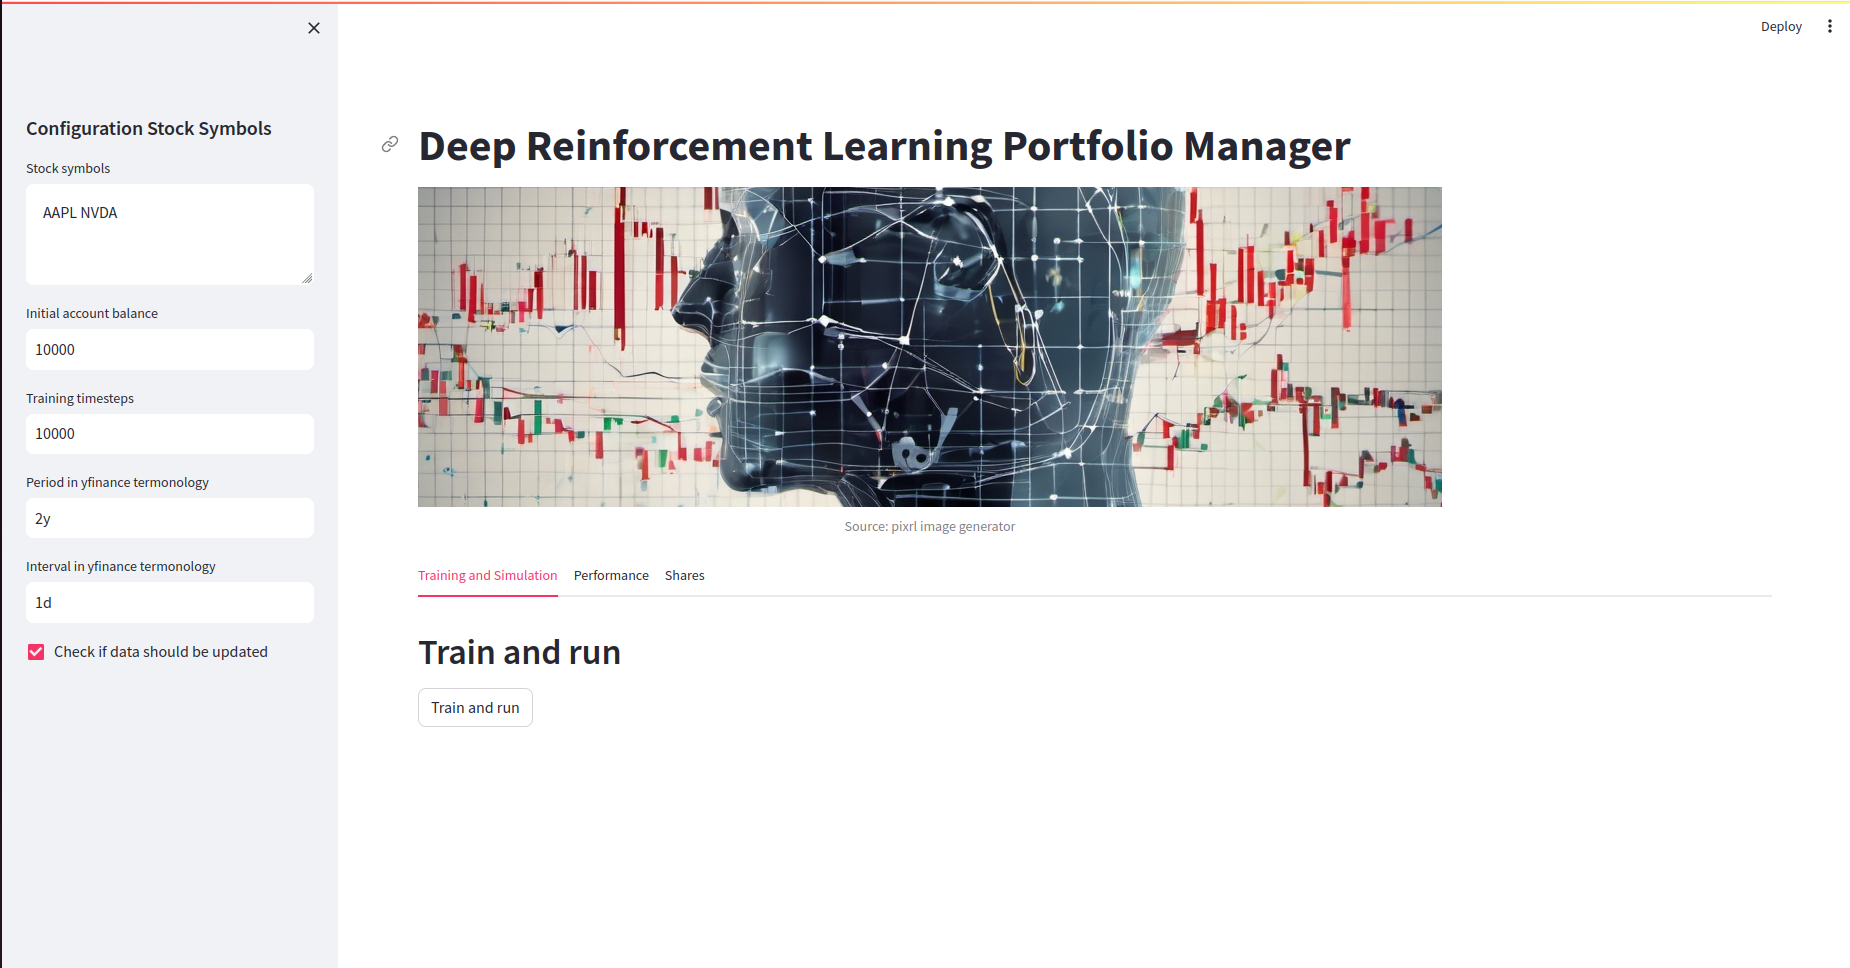
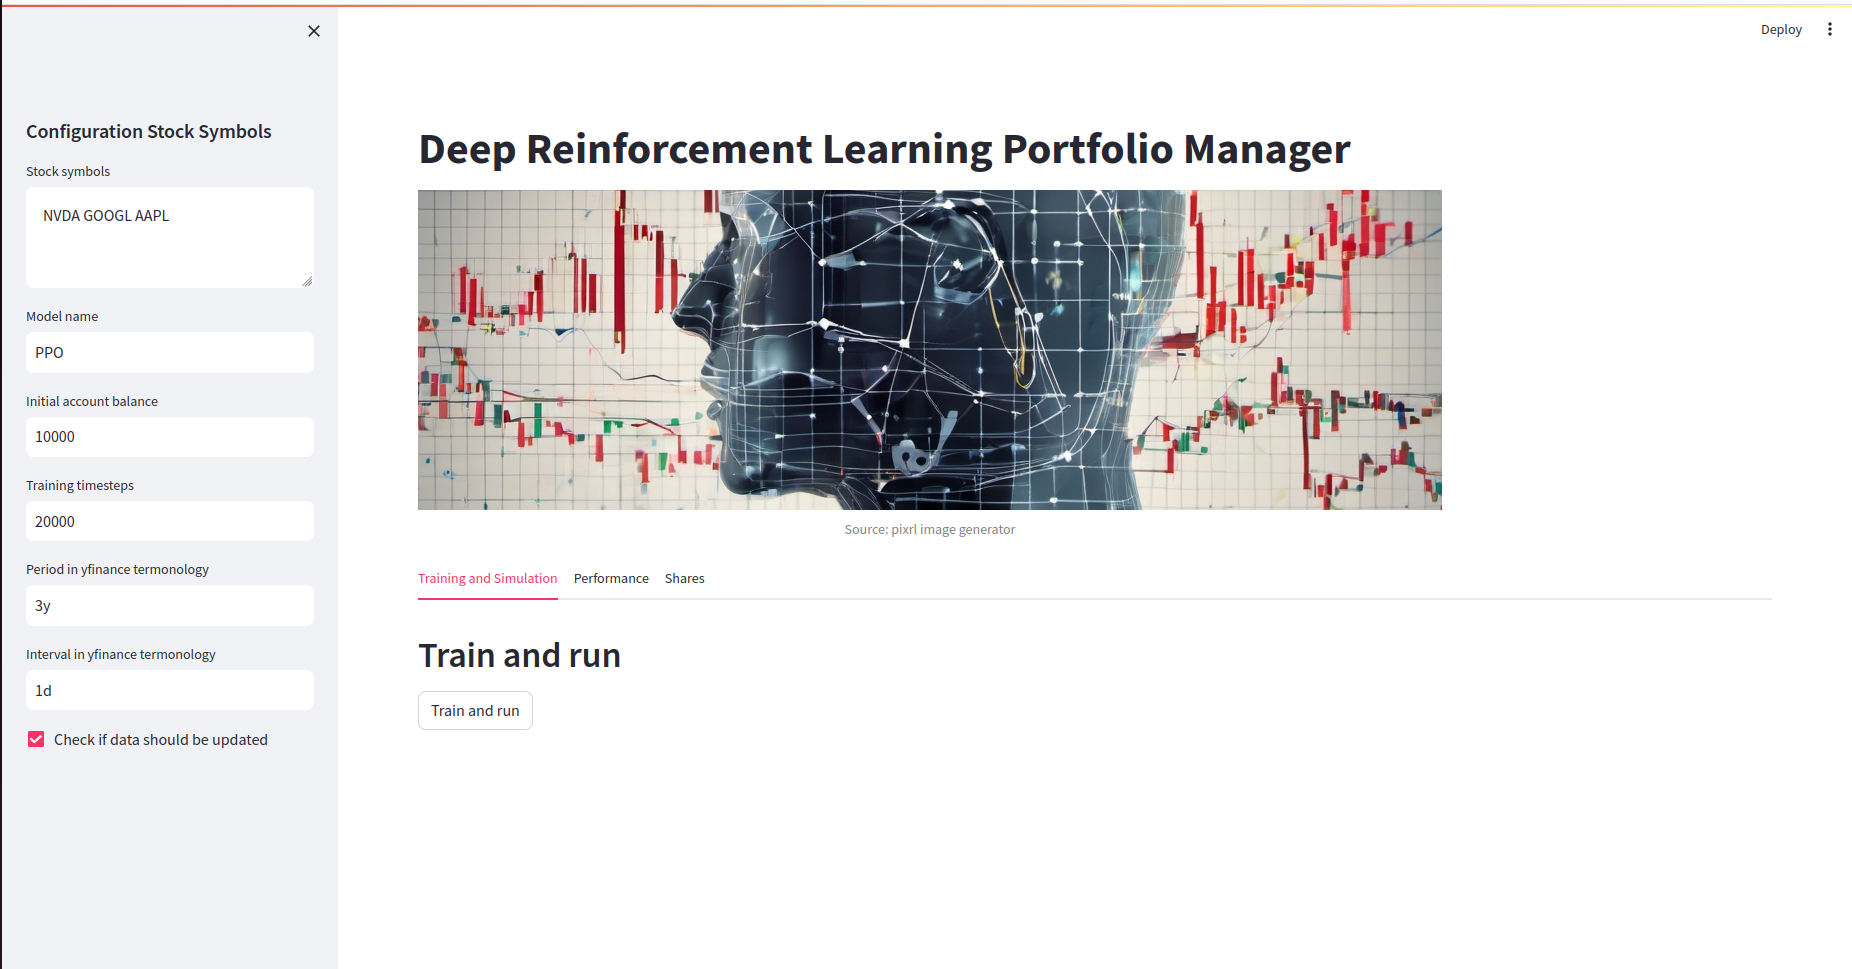
misc: update

diff --git a/streamlit/streamlit_app.py b/streamlit/streamlit_app.py
@@ -23,11 +23,12 @@ class Gui:
         # sidebar for user input -- config
         with st.sidebar:
             st.header("Configuration Stock Symbols")
-            st.session_state.user_input = st.text_area("Stock symbols", "AAPL NVDA")
+            st.session_state.user_input = st.text_area("Stock symbols", "NVDA GOOGL AAPL")
             st.session_state.stock_symbols = st.session_state.user_input.split()
+            st.session_state.model_name = st.text_input("Model name", "PPO")
             st.session_state.initial_balance = st.text_input("Initial account balance", "10000")
-            st.session_state.train_timesteps = st.text_input("Training timesteps", "10000")
-            st.session_state.period = st.text_input("Period in yfinance termonology", "2y")
+            st.session_state.train_timesteps = st.text_input("Training timesteps", "20000")
+            st.session_state.period = st.text_input("Period in yfinance termonology", "3y")
             st.session_state.interval = st.text_input("Interval in yfinance termonology", "1d")
             st.session_state.update_data = st.checkbox("Check if data should be updated", value=False)
 
@@ -37,7 +38,8 @@ class Gui:
             done = False
             if st.button(f'Train and run'):
                 with st.spinner('Running...'):
-                    DrlPortfolioManager.run(stock_symbols=st.session_state.stock_symbols,
+                    DrlPortfolioManager.run(model=st.session_state.model_name,
+                                            stock_symbols=st.session_state.stock_symbols,
                                             initial_balance=float(st.session_state.initial_balance),
                                             train_timesteps=int(st.session_state.train_timesteps),
                                             period=st.session_state.period,

diff --git a/README.md b/README.md
@@ -62,7 +62,7 @@ To get started with using the Stock Trading Portfolio Manager, follow these step
 
 3. **Run the Application**: Once the dependencies are installed, you can run the application from the project directory:
     ```
-    python drlpm/drlpm_run.py NVDA ASML AMZN --period="2y" --interval="1d" --initial-balance=10000 --train-timesteps=10000 --update-data
+    python drlpm/drlpm_run.py NVDA GOOGL AAPL --model=PPO --period="3y" --interval="1d" --initial-balance=10000 --train-timesteps=20000 --update-data
     ```
     Use option --help to get information on all possible configurations.
     ![typer_help](./static/typer_help.png)
